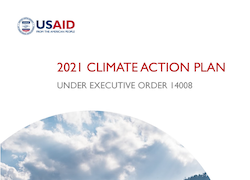
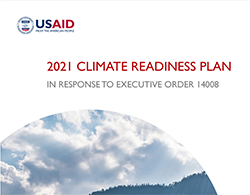
USAID update

diff --git a/adaptation/index.html b/adaptation/index.html
@@ -203,8 +203,8 @@
           </div>-->
           <div class="plan-wrapper">
             <h3>U.S. Agency for International Development</h3>
-            <div class="plan"><a href="../pdfs/usaid-2021-cap.pdf"><img src="../images/caps/usaid-2021-cap.png" alt="U.S. Agency for International Development Federal Climate Adaptation Plan for 2021" border="0" width="175"></a></div>
-             <p class="download ca">Download the U.S. Agency for International Development's <a href="../pdfs/usaid-2021-cap.pdf">2021 Federal Climate Adaptation Plan</a> (PDF).</p>
+            <div class="plan"><a href="../pdfs/usaid-2021-cap.pdf"><img src="../images/caps/usaid-2021-cap.png" alt="U.S. Agency for International Development Climate Readiness Plan for 2021" border="0" width="175"></a></div>
+             <p class="download ca">Download the U.S. Agency for International Development's <a href="../pdfs/usaid-2021-cap.pdf">2021 Climate Readiness Plan</a> (PDF).</p>
           </div>
           <div class="plan-wrapper">
             <h3>U.S. Army Corps of Engineers</h3>
